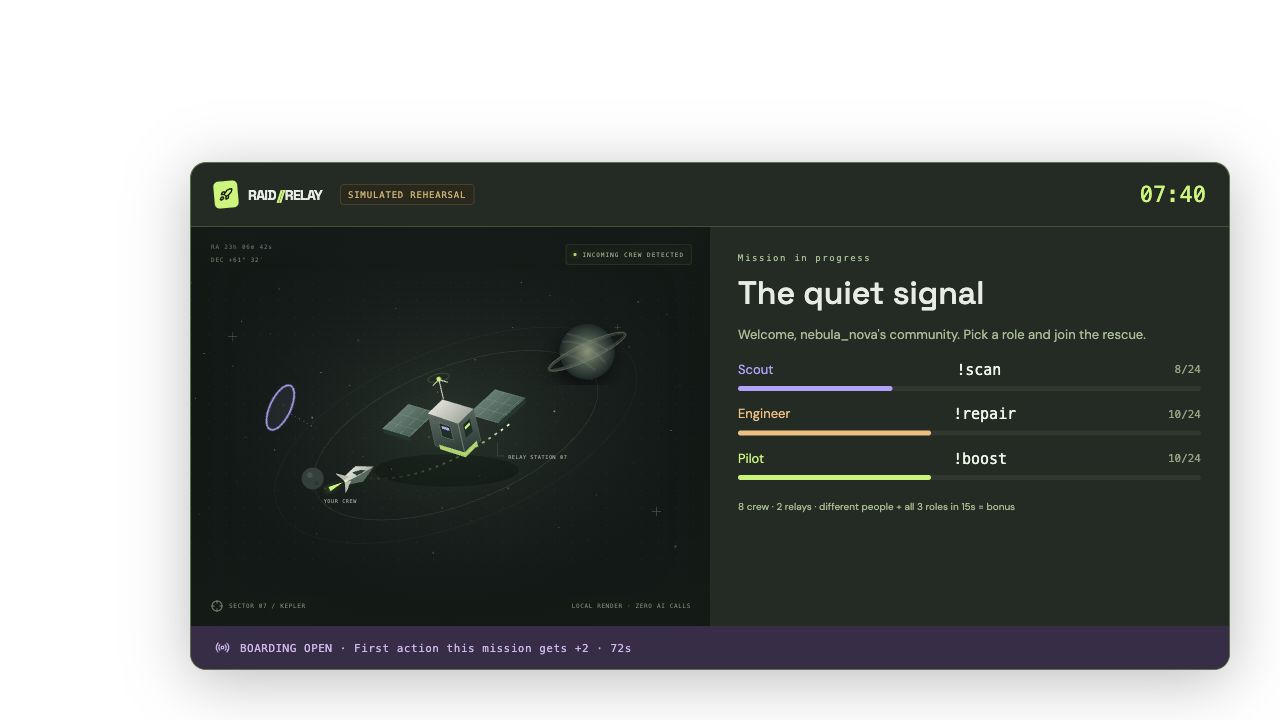
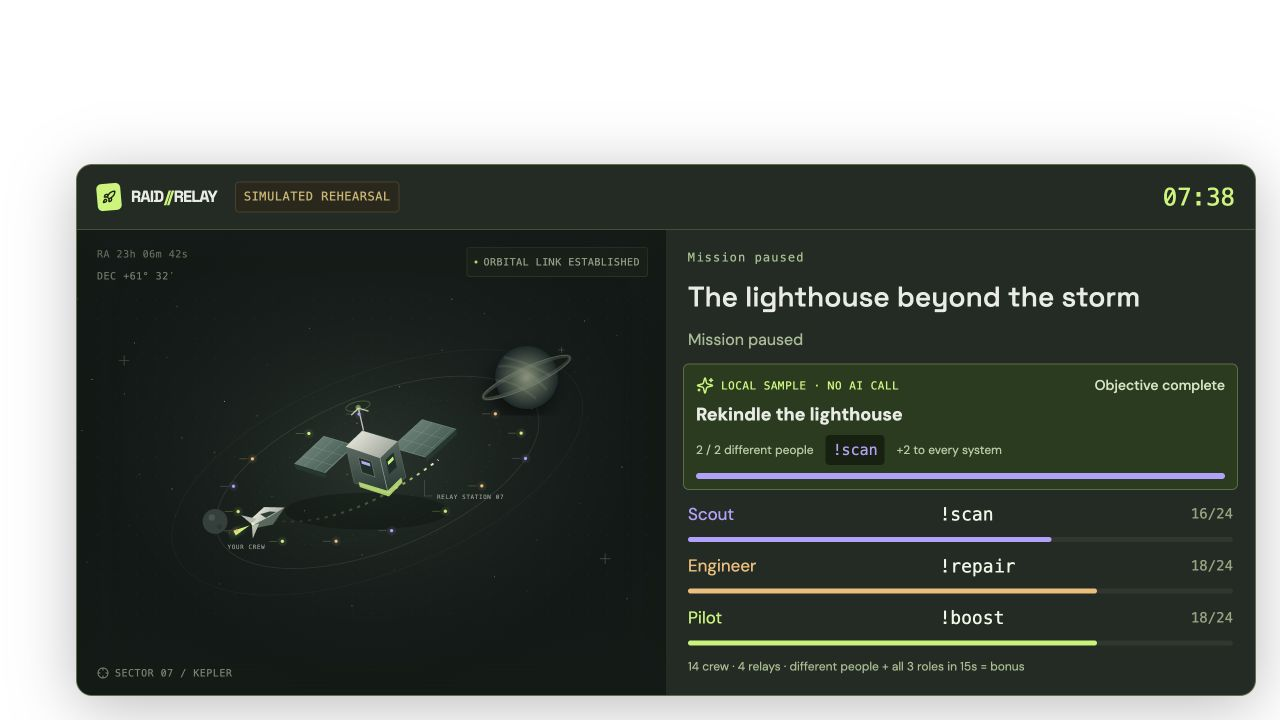
docs: update AI setup, cost controls, and submission evidence

diff --git a/docs/ai-setup.md b/docs/ai-setup.md
@@ -1,0 +1,58 @@
+# Gemini mission director
+
+The AI director proposes a playable rescue objective, an original story, a newcomer welcome and an ending. It uses your theme and aggregate game state. **Gemini 3.8 Flash** is the primary model. **Gemini 3.5 Flash-Lite** is a single fallback for eligible availability/response failures. The model that actually produced a draft is visible and stored with it.
+
+## Connect and use
+
+1. Create a key for a Gemini-enabled project in [Google AI Studio](https://aistudio.google.com/api-keys). Check your project's model access, quota and billing there.
+2. In the local dashboard, open **AI settings**. Paste the key and save. Copy the full secret value, not the key nickname or project ID. Quoted values and a single `GEMINI_API_KEY=...` assignment are accepted. Never send a key in chat or commit it to Git.
+3. Alternatively set `GEMINI_API_KEY` in an ignored local `.env` and restart. Interactive keys are held in server memory only and must be entered again after restarting.
+4. Enter a theme and select English or Vietnamese. Click **Generate AI mission**. Gameplay controls stay usable while generation is pending.
+5. Read the story, role, distinct-person target, duration, reward, newcomer welcome and ending. Nothing appears on the display stream until **Publish mission & objective** is clicked.
+6. If the mission is ready, the objective queues for launch. Otherwise it activates immediately. Accepted actions from distinct people in the selected role count toward it. Completing it awards the bounded bonus once. Its timer pauses with the mission; expiry has no penalty.
+7. Optionally enable drafting on incoming raids. This prepares a draft when quota/budget/cooldown allow; it does not automatically publish or replace a running objective.
+
+A labeled local sample is available only in rehearsal. It makes no model call, consumes no AI budget and cannot be published to a Twitch mission. It is useful for learning the review flow, not evidence that Gemini works.
+
+## Model selection and failure behavior
+
+| Attempt               | Model                   | Thinking  | Output ceiling                  |
+| --------------------- | ----------------------- | --------- | ------------------------------- |
+| Primary               | `gemini-3.8-flash`      | `low`     | 2,048 tokens including thinking |
+| One eligible fallback | `gemini-3.5-flash-lite` | `minimal` | 2,048 tokens including thinking |
+
+`minimal` is not supported for 3.8 Flash; the primary uses `low`. See [Google's thinking guide](https://ai.google.dev/gemini-api/docs/generate-content/thinking). Both models support [structured output](https://ai.google.dev/gemini-api/docs/generate-content/structured-output); output is independently validated before review.
+
+A primary timeout, network failure, model-specific unavailability, 429/5xx, truncated output or invalid draft can trigger one fallback. Both attempts count and reserve budget separately. Invalid credentials/permissions/configuration and safety refusals do not trigger fallback. There is no infinite retry, hidden switch or automatically fabricated response. If fallback fails, the game continues and the operator sees a safe error.
+
+## Cost controls
+
+- Default local reservation guard: **$0.25 per server process**, adjustable from $0.01 to $10.
+- **Eight provider attempts per mission**. A primary plus fallback uses two attempts.
+- Twenty seconds between new generation operations, one operation in flight, identical ready-state requests cached.
+- A 16 KiB prompt-byte guard and bounded output. No inference per chat message.
+- Reserve an estimated **$0.03 per primary attempt** and **$0.01 per fallback attempt** at current configured rates; failures/timeouts keep their reservation because they may still be billed. The primary reserve rises with the published January 2027 rate schedule.
+- Input/output totals and cost estimates use reported usage metadata and the actual model. The provider's billing is authoritative. A byte cap and local reservation are **not a guaranteed invoice ceiling**; provider schema/framing, prices and terms can change. Use your provider billing controls if a financial hard limit is required.
+- Process restart resets these local counters; they are not an account-wide quota meter. Mission reset clears the mission-attempt count, not the current process's total reservation.
+
+Google's [pricing](https://ai.google.dev/gemini-api/docs/pricing), checked 30 October 2026, lists standard paid text rates of $0.75/M input and $3.75/M output/thinking for 3.8 Flash through 31 December, then $1.50/$7.50 from 1 January 2027. Flash-Lite is $0.30/$2.50 per million. For illustration, 1,000 input + 500 output tokens costs about **$0.002625** on primary or **$0.00155** on fallback at the current paid rates. Free-tier access and [rate limits](https://ai.google.dev/gemini-api/docs/rate-limits) depend on your actual project; do not assume fixed free quotas.
+
+## Data handling
+
+Only the streamer's theme, language and allowlisted mission aggregates go to Google: status, progress, system totals, role counts, crew count, action/relay count and incoming raid viewer count. No raw chat, viewer names, participant IDs, Twitch token, operator cookie or roster is sent. The theme itself is user-provided text, so keep it free of private information you do not want processed by the provider.
+
+Google's pricing page distinguishes free-tier data usage for product improvement from paid-tier handling. Review the applicable [Gemini terms](https://ai.google.dev/gemini-api/terms) for your project. The key remains server-side and is absent from API responses, overlay state and recorder exports. Approved narrative and objectives are included in local snapshots/exports; pending drafts and usage counters are memory-only.
+
+## Troubleshooting
+
+| Error                           | Next action                                                                                                              |
+| ------------------------------- | ------------------------------------------------------------------------------------------------------------------------ |
+| Key looks incomplete            | Copy the full secret value from AI Studio, rather than the key's name.                                                   |
+| Budget field rejected           | Use a number such as `0.25` or `0,25` in the UI. The API expects a JSON number.                                          |
+| API key rejected                | Check project/model permission and key restrictions in AI Studio; the app does not use fallback to bypass authorization. |
+| Quota reached                   | Inspect actual project quota. One fallback may also fail if both models share an exhausted constraint.                   |
+| Budget guard reached            | Review reserved attempts and intentionally change the local guard if needed.                                             |
+| Draft expired/previous mission  | Generate a new draft for the current flight.                                                                             |
+| Current objective still running | Finish it or let its window expire before publishing another.                                                            |
+
+Provider documentation and fixture tests do not prove a live generation. Verify a real response using your authorized key and check the actual-model label before recording a submission demo.

diff --git a/docs/demo-script.md b/docs/demo-script.md
@@ -2,19 +2,21 @@
 
 Record in English or add complete English subtitles. Show actual Twitch and Codex footage. Use original visuals and no unlicensed music. Avoid OAuth screens with token fragments, private notes and `.env` files.
 
-| Time      | Show                                                                                               | Suggested narration                                                                                                                                                      |
-| --------- | -------------------------------------------------------------------------------------------------- | ------------------------------------------------------------------------------------------------------------------------------------------------------------------------ |
-| 0:00–0:15 | Actual Twitch stream with overlay; incoming raid if available                                      | “A raid brings people into a new community. RAID//RELAY gives them a shared first mission.”                                                                              |
-| 0:15–0:35 | Live dashboard and real Twitch chat side by side                                                   | “Scouts scan. Engineers repair. Pilots boost. No extra account, installation, subscription or Bits.”                                                                     |
-| 0:35–1:00 | Three real accounts send the three commands within 15 seconds; relay feed and meters update        | “Three different people complete a relay, powering every system. One person spamming or switching roles cannot get this bonus.”                                          |
-| 1:00–1:25 | Real incoming raid and boarding context; otherwise explicitly labeled simulated-raid rehearsal cut | “A raid opens a ninety-second boarding window. Here is the current objective, and here is where a newcomer helps most. First contributions get a bounded welcome bonus.” |
-| 1:25–1:45 | OBS over a real stream scene; pause/resume; completion if goal chosen for short demo               | “The overlay follows the same server state. The streamer stays in control. Every role must finish the rescue.”                                                           |
-| 1:45–2:10 | Codex build chat, engine test, original SVG component and passing test output                      | “We built this with OpenAI Codex: research, the fair scoring engine, Twitch integration, UI and tests. We used GPT‑6.1 Terra for research.”                              |
-| 2:10–2:30 | Connection telemetry and recorder export                                                           | “There are no runtime model calls or per-viewer AI token costs. Tokens stay on the streamer’s computer. The community can export its flight recorder.”                   |
-| 2:30–2:45 | The successful rescue overlay and repository                                                       | “A raid becomes a crew. A first message becomes a shared rescue. That is RAID//RELAY.”                                                                                   |
+| Time      | Show                                                                                               | Suggested narration                                                                                                                                                                                             |
+| --------- | -------------------------------------------------------------------------------------------------- | --------------------------------------------------------------------------------------------------------------------------------------------------------------------------------------------------------------- |
+| 0:00–0:15 | Actual Twitch stream with overlay; incoming raid if available                                      | “A raid brings people into a new community. RAID//RELAY gives them a shared first mission.”                                                                                                                     |
+| 0:15–0:35 | Live dashboard and real Twitch chat side by side                                                   | “Scouts scan. Engineers repair. Pilots boost. No extra account, installation, subscription or Bits.”                                                                                                            |
+| 0:35–1:00 | Three real accounts send the three commands within 15 seconds; relay feed and meters update        | “Three different people complete a relay, powering every system. One person spamming or switching roles cannot get this bonus.”                                                                                 |
+| 1:00–1:25 | Real incoming raid and boarding context; otherwise explicitly labeled simulated-raid rehearsal cut | “A raid opens a ninety-second boarding window. Here is the current objective, and here is where a newcomer helps most. First contributions get a bounded welcome bonus.”                                        |
+| 1:25–1:45 | OBS over a real stream scene; pause/resume; completion if goal chosen for short demo               | “The overlay follows the same server state. The streamer stays in control. Every role must finish the rescue.”                                                                                                  |
+| 1:45–2:10 | Codex build chat, engine test, original SVG component and passing test output                      | “We built this with OpenAI Codex: research, the fair scoring engine, Twitch integration, UI and tests. We used GPT‑6.1 Terra for research.”                                                                     |
+| 2:10–2:30 | Actual Gemini draft, approved objective, token telemetry and recorder export                       | “Gemini 3.8 Flash proposes a rescue objective. We review it, then distinct crew members complete it in the real game. The local budget guard bounds requests; raw chat and viewer names never go to the model.” |
+| 2:30–2:45 | The successful rescue overlay and repository                                                       | “A raid becomes a crew. A first message becomes a shared rescue. That is RAID//RELAY.”                                                                                                                          |
 
 Before filming, use a fresh Twitch mission with goal 6 or 9 per system and enough real contributors to reach it naturally. Rehearse the sequence first, then record the real run. Do not use the simulator to fabricate audience or claim real engagement statistics.
 
 If a real raid cannot be organized, label the raid segment **SIMULATED REHEARSAL** and explicitly say the real Twitch chat path is separate. The actual Twitch portion still must show the project functioning. Real OBS compositing is stronger evidence than a browser-only preview.
 
 Leave time to upload, check YouTube visibility and audio, and verify the submitted Devpost status. Deadline: **3 November 2026, 05:00 Vietnam time**; aim to finish on 2 November. See the timing discrepancy documented in [research](research.md).
+
+Record a real Gemini generation before filming and verify the model label. Do not represent a local sample or a Flash-Lite fallback as a Gemini 3.8 Flash response. Include the draft-to-approved-objective transition in the video.

diff --git a/docs/architecture.md b/docs/architecture.md
@@ -8,6 +8,9 @@ flowchart LR
   D[Labeled rehearsal generator] --> E[Deterministic mission engine]
   B --> E
   C[Streamer dashboard] -->|Same-origin operator API| E
+  C -->|Theme + aggregate state| A[Gemini 3.8 Flash / 3.5 Flash-Lite fallback]
+  A --> R[Validated draft / streamer review]
+  R -->|Explicit publish| E
   E -->|SSE state snapshots| C
   E -->|Read-only SSE| O[OBS browser source]
   E --> P[Ignored atomic local snapshot]
@@ -39,7 +42,7 @@ Unexpected close triggers exponential backoff capped at 30 seconds with jitter a
 - Host validation rejects unexpected hostnames to reduce DNS-rebinding exposure. No permissive CORS policy exists; foreign origins are rejected.
 - The dashboard navigation bootstraps an unpredictable HttpOnly, SameSite=Strict operator cookie. Mutating API requests require this cookie and a matching local Origin. This is a local-computer trust model, not remote account authentication.
 - Overlay URLs carry a separate random display key. It authorizes only the state stream; it cannot authenticate control requests. It rotates on restart. API responses do not contain Twitch credentials.
-- Input payload limit is 8 KiB. Invalid bodies/settings are rejected. Viewer text is rendered by React, never injected as HTML. No arbitrary shell commands, raw chat execution or model tool calls exist.
+- Input payload limit is 8 KiB. Invalid bodies/settings are rejected. Viewer text is rendered by React, never injected as HTML. No arbitrary shell commands, raw chat execution or model tool calls exist. Gemini returns a validated JSON plan, not executable code or operator API calls.
 - Mission UI collections are bounded: latest 40 activity items, latest 80 crew details, up to 10,000 distinct participants per mission, up to 10,000 recent dedupe IDs. State broadcasts are throttled to at most five frames/second with a one-second timer; slow consumers and more than 12 clients are refused/closed.
 - This server is not hardened for exposing to the internet. Do not port-forward it. A malicious local process or another local user is outside its security boundary.
 
@@ -58,11 +61,17 @@ Unexpected close triggers exponential backoff capped at 30 seconds with jitter a
 | Public research/docs                      | Git repository, no credentials                                                                                                      |
 | Internal strategy                         | Ignored `private/strategy.md`                                                                                                       |
 
-End/reset a mission to clear its current player map. The recorder stores only the current mission; there is no automatic archive or cloud analytics. Export before reset if you want history. The two self-hosted font assets and original SVG art load locally, so rehearsal requires no third-party network calls after installation.
+End/reset a mission to clear its current player map. The recorder stores only the current mission; there is no automatic archive or cloud analytics. Export before reset if you want history. Gemini AI requests require internet access. The two self-hosted font assets and original SVG art load locally, so rehearsal requires no third-party network calls after installation.
 
 ## Cost and quota
 
-No runtime OpenAI SDK, model call, inference queue, per-message AI action or paid cloud deployment is used. **Runtime AI requests: 0. Runtime AI tokens: 0.** This says nothing about development-time Codex plan usage, internet/electricity or optional future hosting.
+Runtime AI uses `gemini-3.8-flash` as primary with `thinkingLevel: low`. On an eligible transient/model-availability error or unusable structured response, it attempts `gemini-3.5-flash-lite` once with `thinkingLevel: minimal`. Credential/permission/configuration failures and safety refusals are not bypassed by fallback. Each attempt consumes the mission request limit and its own budget reservation. Model provenance is attached to the reviewed/published story.
+
+The request is an allowlisted aggregate state and a streamer-entered theme. No raw chat, viewer IDs, names, OAuth tokens or roster are sent. The model proposes the focus role, 2–6 distinct contributors, a 30–120 second window and a +1–3 reward to each system. A strict schema rejects out-of-range output; streamer approval is required. The engine counts accepted unique contributors and applies the reward once. Queued objectives activate at launch, active timers pause with the rescue, and expiry has no penalty.
+
+Only approved content appears on the display state stream. Operator SSE includes pending drafts and cost metadata; overlay SSE excludes them. Local examples carry `source: sample` and are blocked from Twitch publication.
+
+Default guard: $0.25/server process, eight provider attempts per mission, 20-second request cooldown, one concurrent generation, 2,048 output/thinking tokens/attempt, 16 KiB prompt-byte guard, cached identical ready-state requests. At current configured prices, the app reserves $0.03 before a primary attempt and $0.01 before fallback. Failed/aborted calls retain reservations. Byte limits/reservations are conservative engineering estimates, **not a guaranteed provider billing ceiling**. Actual estimates use reported prompt/total tokens and the attempted model's configured paid text rates. There is no automatic retry loop. See [AI setup](ai-setup.md) for sources, privacy terms and pricing.
 
 At a normal successful connection: one token validation GET and two subscription POSTs, then one validation GET/hour. Reconnects add subscription calls; errors and retries affect actual counts. Incoming events do not trigger additional API calls. The connection panel counts attempted validation/subscription HTTP calls and received EventSub notifications; it is not a Twitch quota meter, dollar invoice or stream viewer count. No chat messages are sent, so the app does not consume chat send-message buckets.
 
@@ -70,4 +79,4 @@ Use [Twitch rate-limit documentation](https://dev.twitch.tv/docs/api/guide/#twit
 
 ## Scope limits
 
-This MVP is a local single-channel application with a shared three-role mechanic and three story presets. It is not a persistent cross-channel world, an AI story generator, a moderation product, a Twitch Extension, or a proven large-scale service. The design hypothesis is that complementary contributions and arrival-context reduce the social cost of joining; actual retention or engagement improvement requires a real study.
+This MVP is a local single-channel application with a shared three-role mechanic and three story presets. It is not a persistent cross-channel world, a moderation product, a Twitch Extension, or a proven large-scale service. The design hypothesis is that complementary contributions and arrival-context reduce the social cost of joining; actual retention or engagement improvement requires a real study.

diff --git a/README.md b/README.md
@@ -1,16 +1,16 @@
 # RAID//RELAY
 
-**Turn a Twitch raid into a rescue crew.**
+**An AI mission director. A Twitch chat rescue crew. One shared story.**
 
 A cooperative Twitch experience where scouts, engineers and pilots power a shared rescue mission. Three different people acting in three complementary roles within 15 seconds trigger a relay bonus. Incoming raids open a 90-second boarding window with a contextual objective and a bounded first-action bonus, so new arrivals can immediately help.
 
 Built with OpenAI Codex for the [Codex x TwitchCon Hackathon](https://twitchcon-codex.devpost.com/). The project is an independently built submission, not an official Twitch or OpenAI product.
 
-![Mission control in labeled simulated rehearsal](docs/images/dashboard.png)
+![Readable AI mission controls before API setup](docs/images/ai-director.png)
 
 ## Run in two commands
 
-Requires **Node.js 22+** and npm. No API keys, Twitch account or paid AI service needed for rehearsal.
+Requires **Node.js 22+** and npm. Basic rehearsal works without credentials. Runtime AI uses your Gemini API key; Twitch mode uses your broadcaster authorization.
 
 ```sh
 npm ci
@@ -27,6 +27,16 @@ npm start
 ```
 
 Keep the command running while using the dashboard and OBS. Run one instance per checkout. Both commands work on macOS, Linux and Windows.
+
+## Let AI direct a real rescue
+
+1. Open **AI settings**, paste a Gemini API key from [Google AI Studio](https://aistudio.google.com/api-keys), and save. The key stays in server memory; an ignored `.env` with `GEMINI_API_KEY` is an alternative.
+2. Choose a theme and English or Vietnamese, then click **Generate AI mission**. **Gemini 3.8 Flash** is always tried first; **Gemini 3.5 Flash-Lite** is a single bounded fallback for eligible availability/response failures. The UI identifies the model that actually produced the draft.
+3. Review the story, newcomer welcome, ending and playable side objective. Click **Publish mission & objective** to activate it. Before publication, drafts are invisible to the OBS state stream.
+4. The objective requires 2–6 distinct people to contribute to the selected role in 30–120 seconds. Success adds a validated +1 to +3 to every system, once. One person's repeated actions cannot complete it. Its timer pauses with the mission.
+5. Optionally enable automatic **drafting** when a raid arrives. Publishing still requires review. A labeled local sample is available in rehearsal for setup testing; it is not represented as a Gemini result.
+
+AI calls run separately from game controls, so the streamer can still pause/end while a response is pending. Requests use aggregate progress and role counts, not raw chat, usernames or participant IDs. See [AI setup, fallback and cost](docs/ai-setup.md).
 
 ## Play together
 
@@ -50,21 +60,24 @@ End any rehearsal before connecting. A successful connection loads a fresh Twitc
 
 ## What is implemented
 
+- Gemini-powered mission director with reviewed story/role objectives, a real distinct-person side objective, English/Vietnamese generation and explicit primary/fallback provenance.
 - Streamer dashboard, three configurable flight plans using one rescue mechanic, live crew manifest and action feed.
 - Deterministic mission engine, per-person cooldown, duplicate-event protection, timed three-person relays and bounded onboarding bonus.
 - Read-only Twitch EventSub adapter with token validation, keepalive watchdog, backoff reconnect, session migration and subscription revocation handling.
 - Transparent full and compact OBS browser-source overlays using the same authoritative server state.
 - Explicitly labeled rehearsal and simulated-raid tools, blocked in Twitch mode.
 - Local atomic mission snapshots; interrupted active missions restore paused. JSON flight-recorder export.
-- Mobile layout, keyboard controls, native dialog focus handling and reduced-motion support.
+- Readable 16px body text, 44–48px controls, responsive layouts, confirmation/export before end/reset, keyboard controls, native dialog focus handling and reduced-motion support.
 
 **Verification status:** automated engine/API/adapter fixture tests and local browser rehearsal have been exercised. Live Twitch OAuth, real chat/raids, network migration, and OBS compositing still require validation with an authorized broadcaster and OBS. The project is not yet a completed hackathon submission. See [test evidence and remaining checks](docs/testing.md).
 
 ## Cost and data
 
-No model or AI API runs inside this application. There is **no runtime AI token cost**. Twitch traffic uses one EventSub socket, two subscriptions and startup/hourly validation; this is not a guarantee of third-party availability or future pricing. Local hosting needs no paid deployment. Development-time Codex usage follows your own plan; it is separate from product runtime costs.
+Runtime AI uses **Gemini 3.8 Flash**, falling back once to **3.5 Flash-Lite** when eligible. Default local budget guard: **$0.25 per server process**, eight provider attempts per mission, 20 seconds between new requests, 2,048 output/thinking tokens per attempt. Each primary attempt reserves an estimated $0.03, fallback $0.01 at current configured prices; failures/timeouts keep their reservation because they may still be billed. Actual cost is estimated from reported token usage. This is not a provider billing cap. Free-tier availability and quotas depend on your Google project. [AI setup and pricing](docs/ai-setup.md).
 
-OAuth tokens stay in process memory. Public Client ID is stored locally in the browser. Mission snapshots stay under ignored `private/runtime/`. No raw chat messages are persisted; accepted commands, display names, user IDs and mission events are used locally. The overlay receives display names but no tokens. [Architecture and privacy](docs/architecture.md).
+Twitch traffic uses one EventSub socket, two subscriptions and startup/hourly validation. No AI call is made for every chat message. Development-time Codex usage is separate from runtime Gemini costs.
+
+Gemini keys and Twitch OAuth tokens stay in process memory. AI prompts send the streamer’s theme and allowlisted aggregate mission state to Google. No raw audience chat or names are sent. Public Client ID is stored locally in the browser. Mission snapshots stay under ignored `private/runtime/`. No raw chat messages are persisted; accepted commands, display names, user IDs and mission events are used locally. The overlay receives display names but no tokens. [Architecture and privacy](docs/architecture.md).
 
 ## Develop and verify
 

diff --git a/docs/submission.md b/docs/submission.md
@@ -8,13 +8,15 @@ RAID//RELAY
 
 ## Tagline
 
-Turn a Twitch raid into a rescue crew. Three roles. One shared signal. Everyone can help.
+An AI mission director turns Twitch chat into a rescue crew. A new story, a real role, a shared signal.
 
 ## Inspiration
 
 A Twitch raid moves people into a new community in an instant. It does not automatically give those people context, a role, or an easy first interaction. We wanted to make the arrival itself a shared moment: something the existing community and the new arrivals could build together.
 
 ## What it does
+
+Gemini 3.8 Flash directs the adventure: it reads the mission’s aggregate progress and the streamer’s theme, then proposes an original rescue story, newcomer welcome and playable crew objective. The streamer reviews and publishes it. Objectives require distinct people in a selected role before a time window closes; completion awards a bounded bonus in the actual game. Gemini 3.5 Flash-Lite is a single eligible fallback, with the model used clearly recorded.
 
 RAID//RELAY is a cooperative rescue mission for Twitch chat, with a streamer dashboard and an OBS browser overlay. Viewers become scouts with `!scan`, engineers with `!repair`, or pilots with `!boost`. Each role powers a different ship system. Three different people using all three roles within 15 seconds create a relay, adding a bonus to every system. One person cannot trigger the teamwork bonus alone by spamming or switching roles.
 
@@ -28,7 +30,7 @@ We used OpenAI Codex to research the event requirements, compare prior Twitch ha
 
 The local Express server is authoritative. It validates exact chat commands, enforces a per-person cooldown, deduplicates deliveries and calculates three-person relays deterministically. EventSub carries chat and incoming raids; Server-Sent Events synchronize the dashboard and OBS overlay. Atomic local snapshots support restoring an interrupted mission paused. OAuth tokens stay in memory and are not committed or included in recorder exports.
 
-The application does not call a language model at runtime. Codex is the development tool; the runtime is a predictable cooperative game. This keeps per-viewer AI token cost at zero and makes a secret-free, clearly labeled rehearsal possible for judges.
+Codex is the development tool; Gemini powers the runtime mission director. The deterministic engine enforces every AI-proposed objective after schema validation and streamer approval. We cap attempts, output tokens and estimated budget, cache identical ready-state requests and avoid per-chat-message inference. Generation happens asynchronously so the streamer can keep controlling the game. A secret-free rehearsal uses clearly labeled local examples instead of fabricating a model response.
 
 ## What makes it different
 
@@ -54,7 +56,7 @@ Playtest the onboarding and relay timing with small streamers, measure participa
 
 ## Built with
 
-OpenAI Codex, TypeScript, React, Vite, Node.js, Express, Twitch EventSub, Twitch OAuth, Server-Sent Events, Zod, ws, Lucide.
+OpenAI Codex, Gemini 3.8 Flash, Gemini 3.5 Flash-Lite, TypeScript, React, Vite, Node.js, Express, Twitch EventSub, Twitch OAuth, Server-Sent Events, Zod, ws, Lucide.
 
 ## Submission fields to complete
 

diff --git a/docs/testing.md b/docs/testing.md
@@ -12,7 +12,7 @@ npm run build
 npm audit --omit=dev --audit-level=high
 ```
 
-The 20 engine/API/adapter tests cover:
+The automated engine/API/adapter/director tests cover:
 
 - Distinct-person relay scoring, prevention of solo role switching, exact 15-second expiry and system caps/completion.
 - Cooldown boundaries, exact command matching, duplicate delivery and unexpected user IDs.
@@ -23,6 +23,8 @@ The 20 engine/API/adapter tests cover:
 
 The adapter fixtures validate ingestion, not Twitch server acceptance of OAuth scopes/subscriptions or network reconnect behavior.
 
+Additional runtime AI tests cover primary model selection and thinking settings, eligible fallback and actual-model provenance, no fallback on credentials/safety errors, budget/cooldown/concurrency, schema rejection, stale response discard, key normalization, hidden operator drafts, objective uniqueness/timers/rewards and approved-state recovery. Provider responses in automated tests are injected fixtures; they are not claims of a live Gemini call.
+
 ## Local browser walkthrough
 
 Verified through the app browser:
@@ -32,11 +34,15 @@ Verified through the app browser:
 3. Open OBS setup and preview the full read-only browser source. It shows the mission, timer, system values and persistent **SIMULATED REHEARSAL** label.
 4. Inspect the 390×844 responsive layout and navigation. Document width matches viewport width; no horizontal page overflow was observed.
 5. Verify plan loading is disabled during an active/paused mission. Set goal 6, launch a fresh rehearsal, contribute six simulated crew actions and observe completion at 100% in all systems. Verify the completed flight-recorder view.
+6. Measure body/subtitle text at 16px, AI inputs/select/Generate at exactly 48px with aligned top edges on desktop, and matching 48px heights/full widths on mobile. Header AI buttons are 44px; neither desktop nor 390px mobile has horizontal overflow.
+7. Publish an explicitly labeled local sample objective, resume, contribute two distinct scouts and observe the one-time +2 system bonus. Pause again. This checks the review/gameplay UI without claiming a Gemini call.
+8. Enter an incomplete test key and verify the specific validation message; clear it afterward. Check end confirmation offers both Keep this flight and Export recorder.
 
 Screenshots in `docs/images/` show this local rehearsal. They are not evidence of live Twitch use or an actual OBS capture.
 
 ## Required account/device checks before submission
 
+- [ ] Verify a real Gemini 3.8 Flash response with an authorized key, review its objective, publish it and demonstrate its gameplay effect. Check the UI reports the actual model.
 - [ ] Register a public Twitch application and exact callback URI using [setup](twitch-setup.md).
 - [ ] Authorize as the broadcaster; verify both real EventSub subscriptions reach live status.
 - [ ] Show real Twitch commands changing dashboard and OBS. Three real accounts should generate a relay.

diff --git a/docs/research.md b/docs/research.md
@@ -42,3 +42,9 @@ No research can guarantee a prize. Select one concept, demonstrate a working end
 ## Submission readiness evidence still required
 
 Run the real adapter with authorized Twitch credentials, demonstrate an actual chat message changing the live OBS overlay, verify recovery and control behavior, record real Twitch and Codex footage, publish a viewable video, finish English project description and setup instructions, capture session ID, then submit via Devpost and confirm status. Local simulated traffic is useful for judging setup but must be labeled and cannot replace evidence of operation on Twitch.
+
+## Runtime AI revision — 30 October 2026
+
+After product review, the implementation now includes a real Gemini mission director rather than optimizing away runtime AI. [Rules](https://twitchcon-codex.devpost.com/rules) require Codex in the build and authorize third-party integrations subject to their terms. The FAQ does not mandate a specific runtime provider. Using Gemini is a reasonable reading, not an explicit provider-specific approval. The chosen provider is **Gemini 3.8 Flash**, with **3.5 Flash-Lite** as a single eligible fallback, as requested by the entrant.
+
+AI proposes a story and a bounded distinct-person crew objective based on aggregate game state. The streamer reviews it; the engine enforces objective timing and rewards. This makes the AI affect play instead of merely adding cosmetic text. No claim of novelty, live Gemini verification or real-audience impact follows from implementing the feature. See [AI setup and sources](ai-setup.md).

diff --git a/docs/codex-build.md b/docs/codex-build.md
@@ -11,7 +11,9 @@ The main Codex chat handled product selection, implementation, tests, visual ins
 - Implemented a deterministic mission engine with role complementarity, cooldowns, onboarding bonus, deduplication, pause and recovery.
 - Built the original orbital SVG scene, React dashboard, mobile layout and read-only OBS overlay.
 - Implemented the local OAuth and Twitch EventSub adapter, documented credential handling and live validation still needed.
-- Added engine, adapter fixture and HTTP integration tests and a reproducible build/CI workflow.
+- Added engine, adapter fixture, HTTP integration and Gemini director tests with a reproducible build/CI workflow.
+- Added Gemini 3.8 Flash runtime direction with a bounded 3.5 Flash-Lite fallback, reviewed story generation and real crew-objective rewards.
+- Revised typography to a readable 16px body scale, aligned AI controls, added actionable field validation and end/reset confirmation.
 - Exercised a labeled rehearsal and OBS-browser preview in the local browser; inspected the mobile breakpoint and captured the screenshots in this repository.
 
 ## Main session ID

diff --git a/docs/README.md b/docs/README.md
@@ -2,6 +2,7 @@
 
 - [Quick start and project overview](../README.md)
 - [Research, event requirements, and existing winners](research.md)
+- [AI director, Gemini setup and cost controls](ai-setup.md)
 - [Twitch application and OBS setup](twitch-setup.md)
 - [Architecture, privacy, and runtime cost](architecture.md)
 - [Testing and current verification limits](testing.md)
